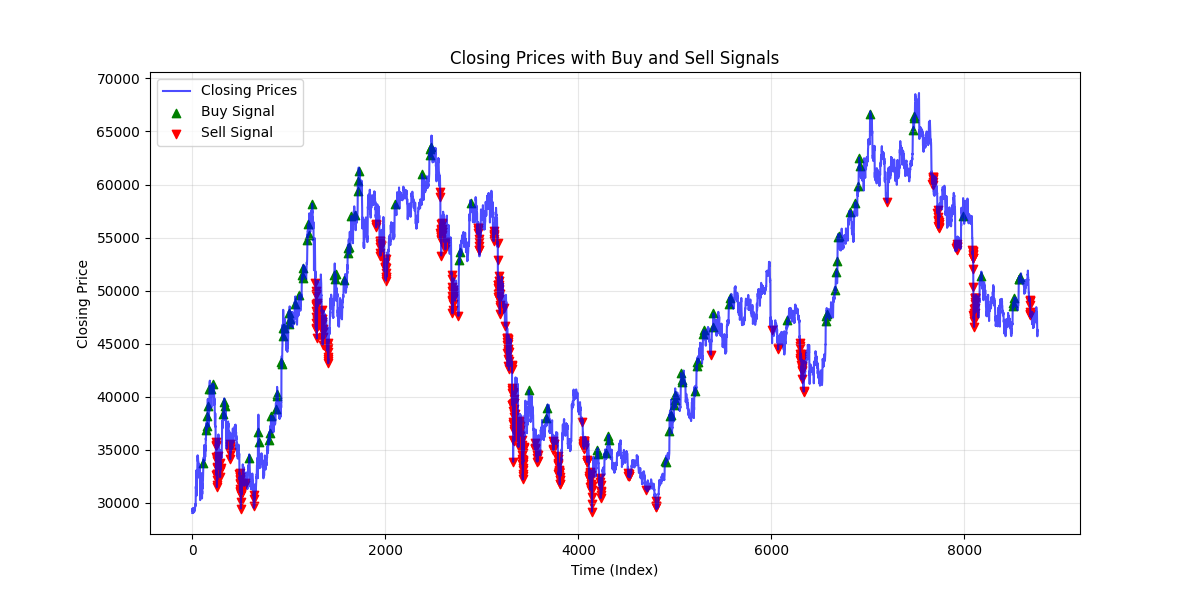
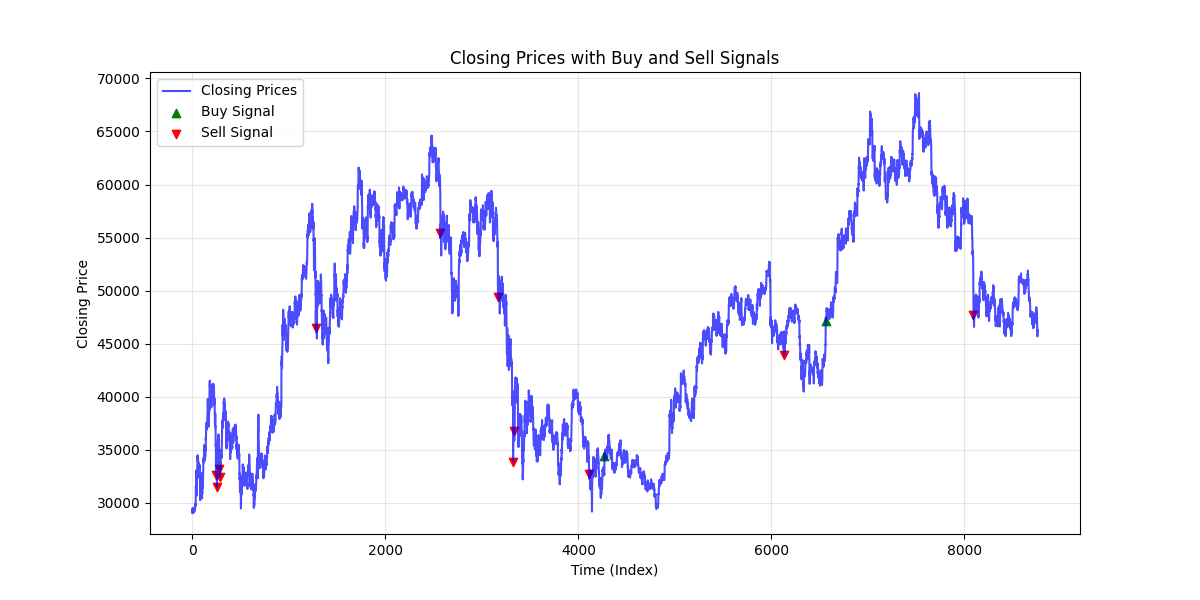
whoopsie

diff --git a/bots/simple_bot.py b/bots/simple_bot.py
@@ -4,7 +4,6 @@ from config import TRAINING_DATASET_PATH
 from optimisers.grid_search_optimiser import grid_search_optimiser
 from utils.data_loader import read_csv
 from bots.bot_base import bot
-from optimisers.gwo_optimiser import gwo_optimiser
 
 class simple_bot(bot):
     def __init__(self):
@@ -28,3 +27,4 @@ class simple_bot(bot):
 # e.g. a discrete parameter can be [1, 2, 3, 4, 5] or a continuous parameter can be (1, 10)
 simple_bot_instance = simple_bot()
 training_data = read_csv(TRAINING_DATASET_PATH, start_date="2015-01-01", end_date="2015-12-31")
+grid_search_optimiser(simple_bot_instance, training_data)
